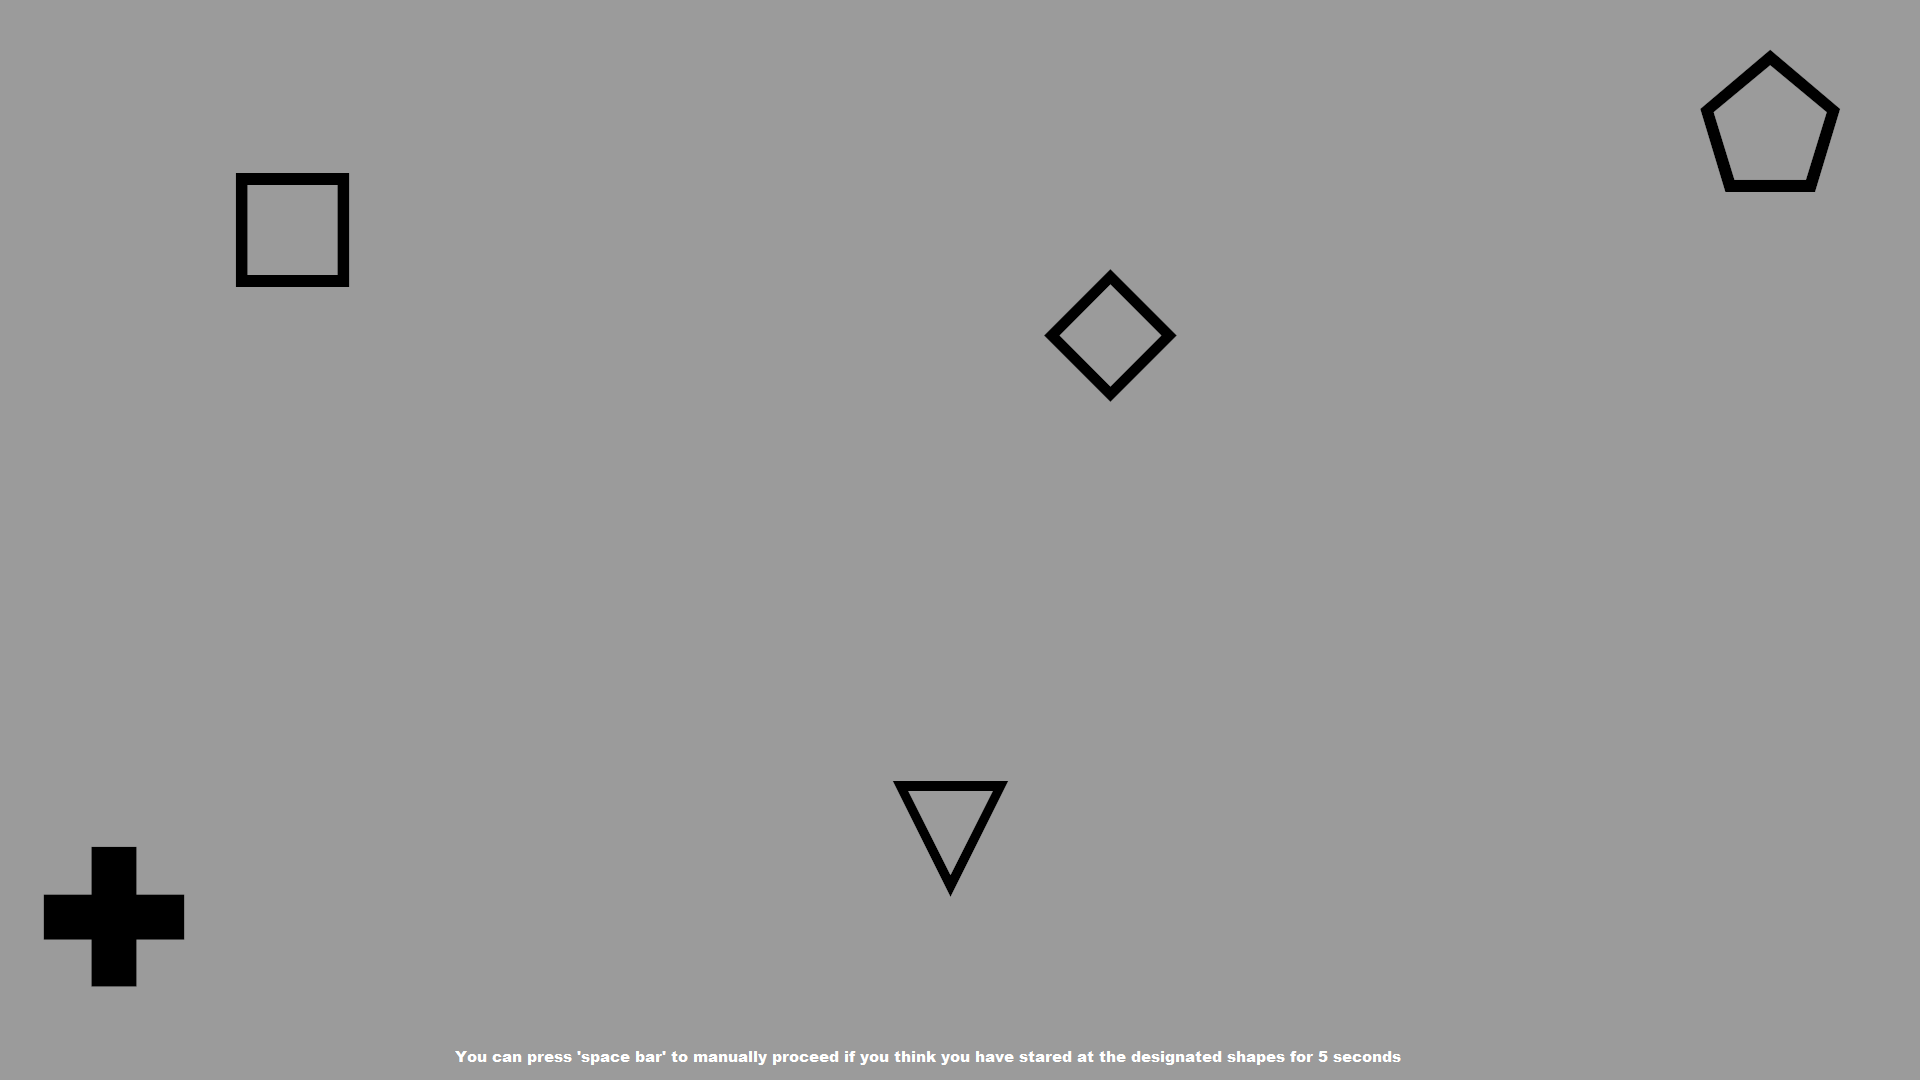
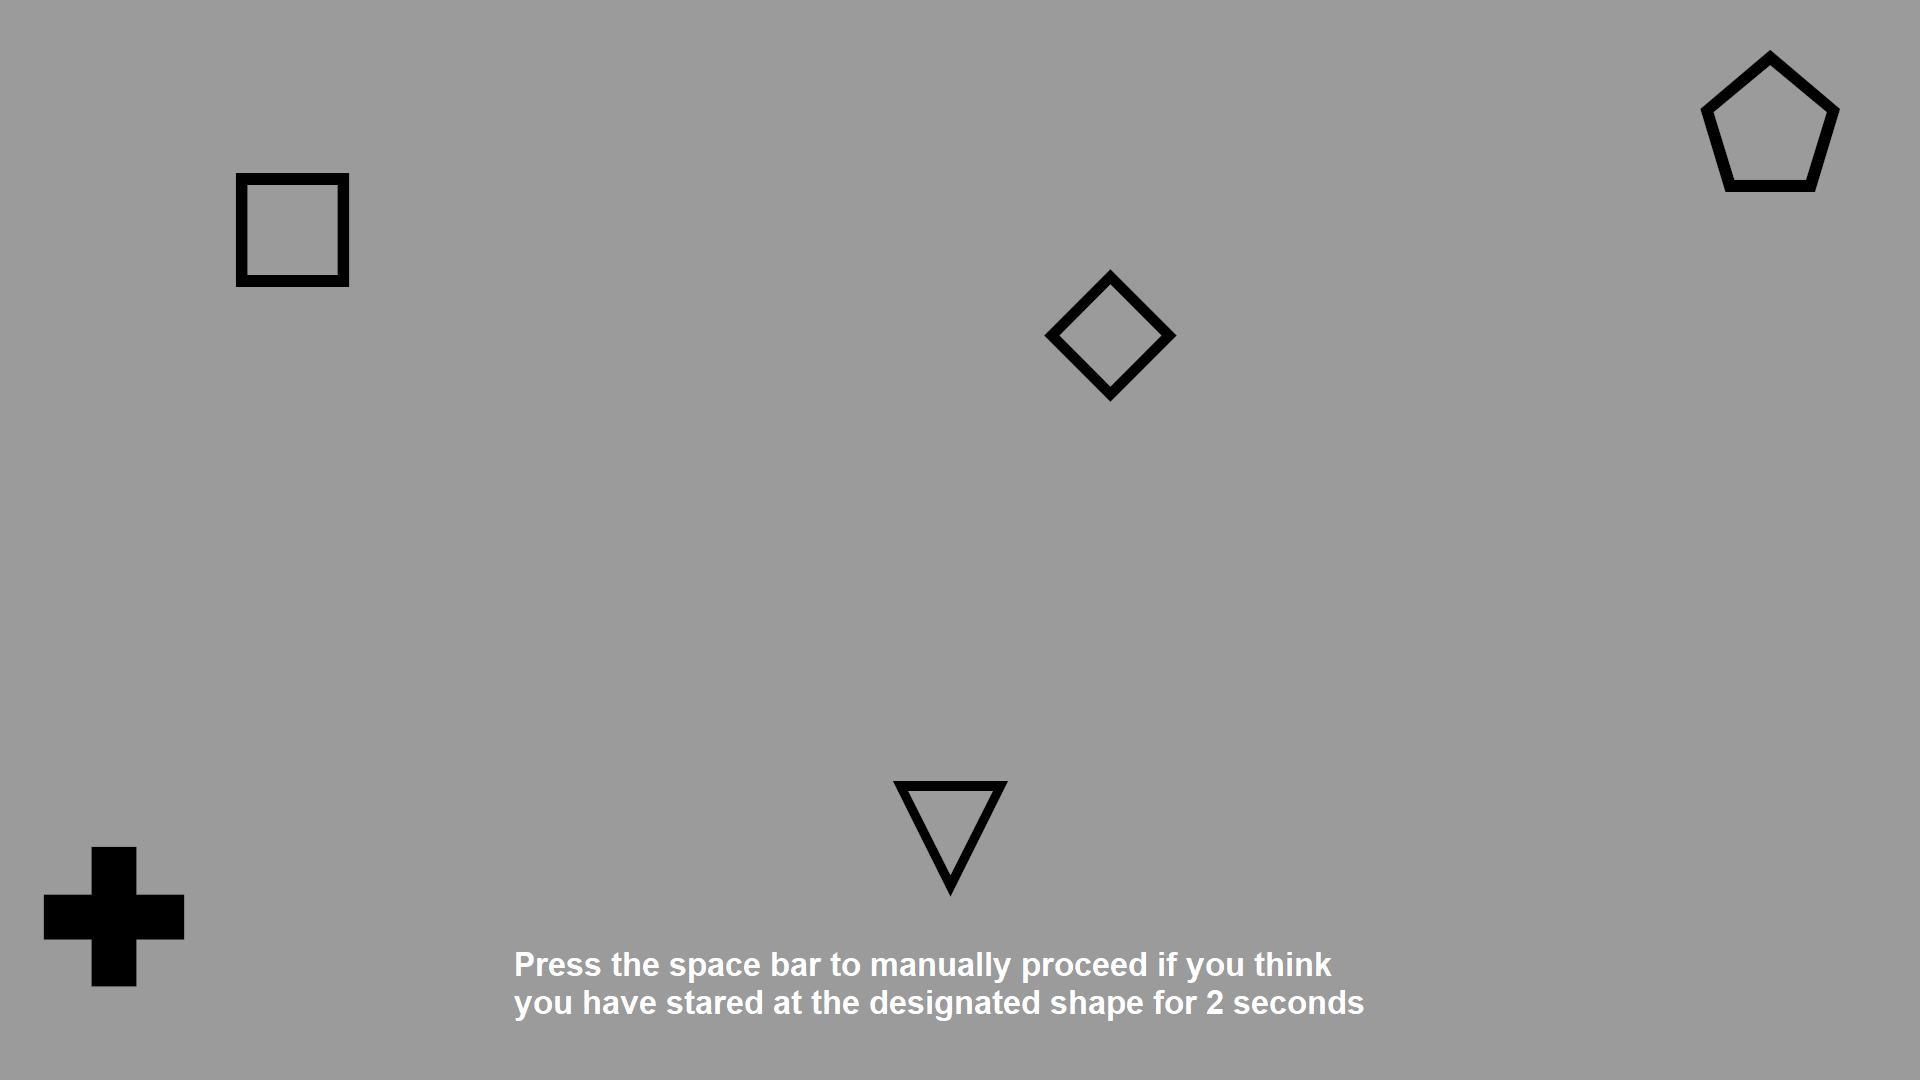
Removed results popup feature

Changed region(s): [[0.25, 0.8861, 0.7188, 0.9472], [0.25, 0.9778, 0.7188, 1.0]]

diff --git a/public_html/dev/javascript/visualisation_test.js b/public_html/dev/javascript/visualisation_test.js
@@ -21,7 +21,6 @@ var mouseDocX, mouseDocY, mouseScreenX, mouseScreenY;
 //}
 // **** end GazeCloud global vars ****
 
-
 //{ **** taskrunner global vars ***
 
 // these image names could be gotten from the MongoDB
@@ -517,6 +516,9 @@ function startNextSubtask() {
 	var resultPopup = document.getElementById("resultPopup");
 //	console.log('start task:',task_num,'subtask:',subtask_num); // debug
 
+
+// not using result popup now
+/*
 	// called to close the result modal popup and start the next subtask
 	var closeResult = function(){
 		clearTimeout(timer); 
@@ -561,6 +563,8 @@ function startNextSubtask() {
 		// show the result
 		resultPopup.style.display = "block";
 	}
+*/
+// end of result popup
 
 	// callback to setTimeout, to spacebar pressed event, and to target found event
 	endSubtask = function(){
@@ -572,9 +576,12 @@ function startNextSubtask() {
 		saveResult();
 		if (!gazeDebug && doPlotGaze) doPlotGaze = false; // stop plotting the gaze on screen
 
-		timer = setTimeout(closeResult, 5000, timer); // close the result popup after 5 seconds
-		showResult();
-
+//		timer = setTimeout(closeResult, 5000, timer); // close the result popup after 5 seconds
+//		showResult();
+		clearTimeout(timer); 
+		img = new Image();
+		resizeCanvas();
+		tryGetNextSubtask();
 	}
 
 	// change the image if the spacebar is pressed
